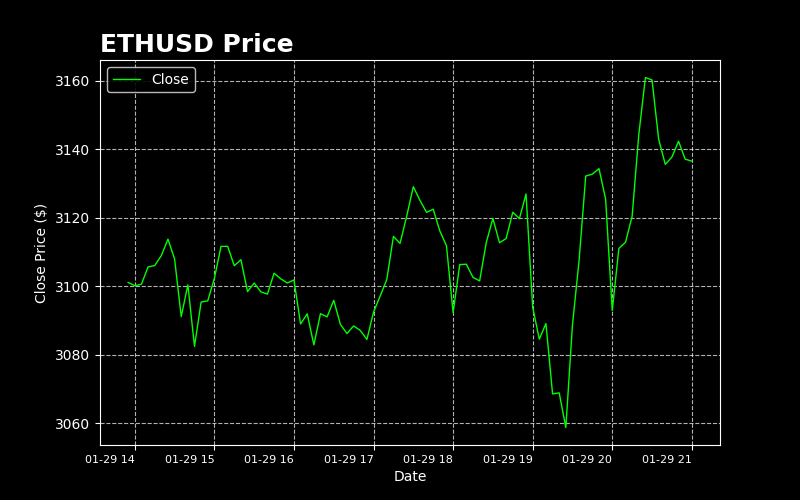
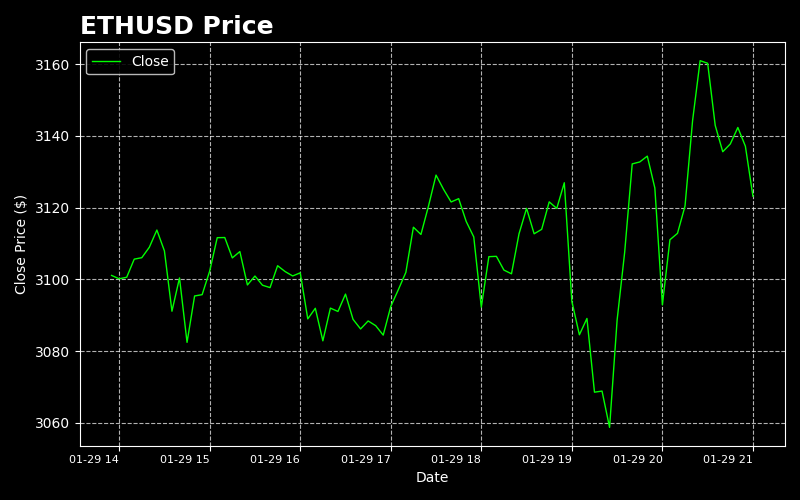
testing

diff --git a/Statistic.py b/Statistic.py
@@ -40,8 +40,6 @@ class Statistic:
         })
         data.to_csv(f'mod_{self.file_name}.csv')
         return data
-    #read the csv file to be plot
-    #The plot update with new data being written into the csv
 
     def format_graph(self, title, xlabel, ylabel, grid=True):
         plt.style.use("dark_background")
@@ -72,18 +70,15 @@ class Statistic:
             title   = f"{self.file_name} Price",
             xlabel  = 'Date', 
             ylabel  = 'Close Price ($)') 
-                
+           
         data = self.read()
         x = data['Date']
         y_close = data['Close']
-
-   
-
         #plt.plot(x, y_low, label='Low', color='blue', linestyle='-', linewidth=1.5)
         plt.plot(x, y_close, label='Close', color='lime')
         #plt.plot(x, y_high, label='High', color='red', linestyle='-', linewidth=1.5)
         
-        #plt.tight_layout()
+        plt.tight_layout()
         plt.legend(loc='best') 
         plt.savefig(f"{self.file_name}.png")
         plt.show()

diff --git a/main.py b/main.py
@@ -30,8 +30,16 @@ def task(symbol, type):
     
 
     #for loop of focus array
-    for sym in symbol:
-        account.focus(sym)
+    if len(symbol) > 1:
+        for sym in symbol:
+            account.focus(sym)
+            hist_data = account.history(type, time = 0.3, step = 5)
+            
+            data = Statistic(sym, hist_data)
+            data.create()
+            data.graph()
+    else:
+        account.focus(symbol)
         hist_data = account.history(type, time = 0.3, step = 5)
         
         data = Statistic(sym, hist_data)
@@ -68,7 +76,7 @@ def main():
         #start date(scroll bar + hard input)
         #label(bar, close, etc)
 
-    symbol = "BTCUSD", "ETHUSD"
+    symbol = "BTCUSD"
     task(symbol, type = "BAR")
 
     #=>async data(option, parameter)
